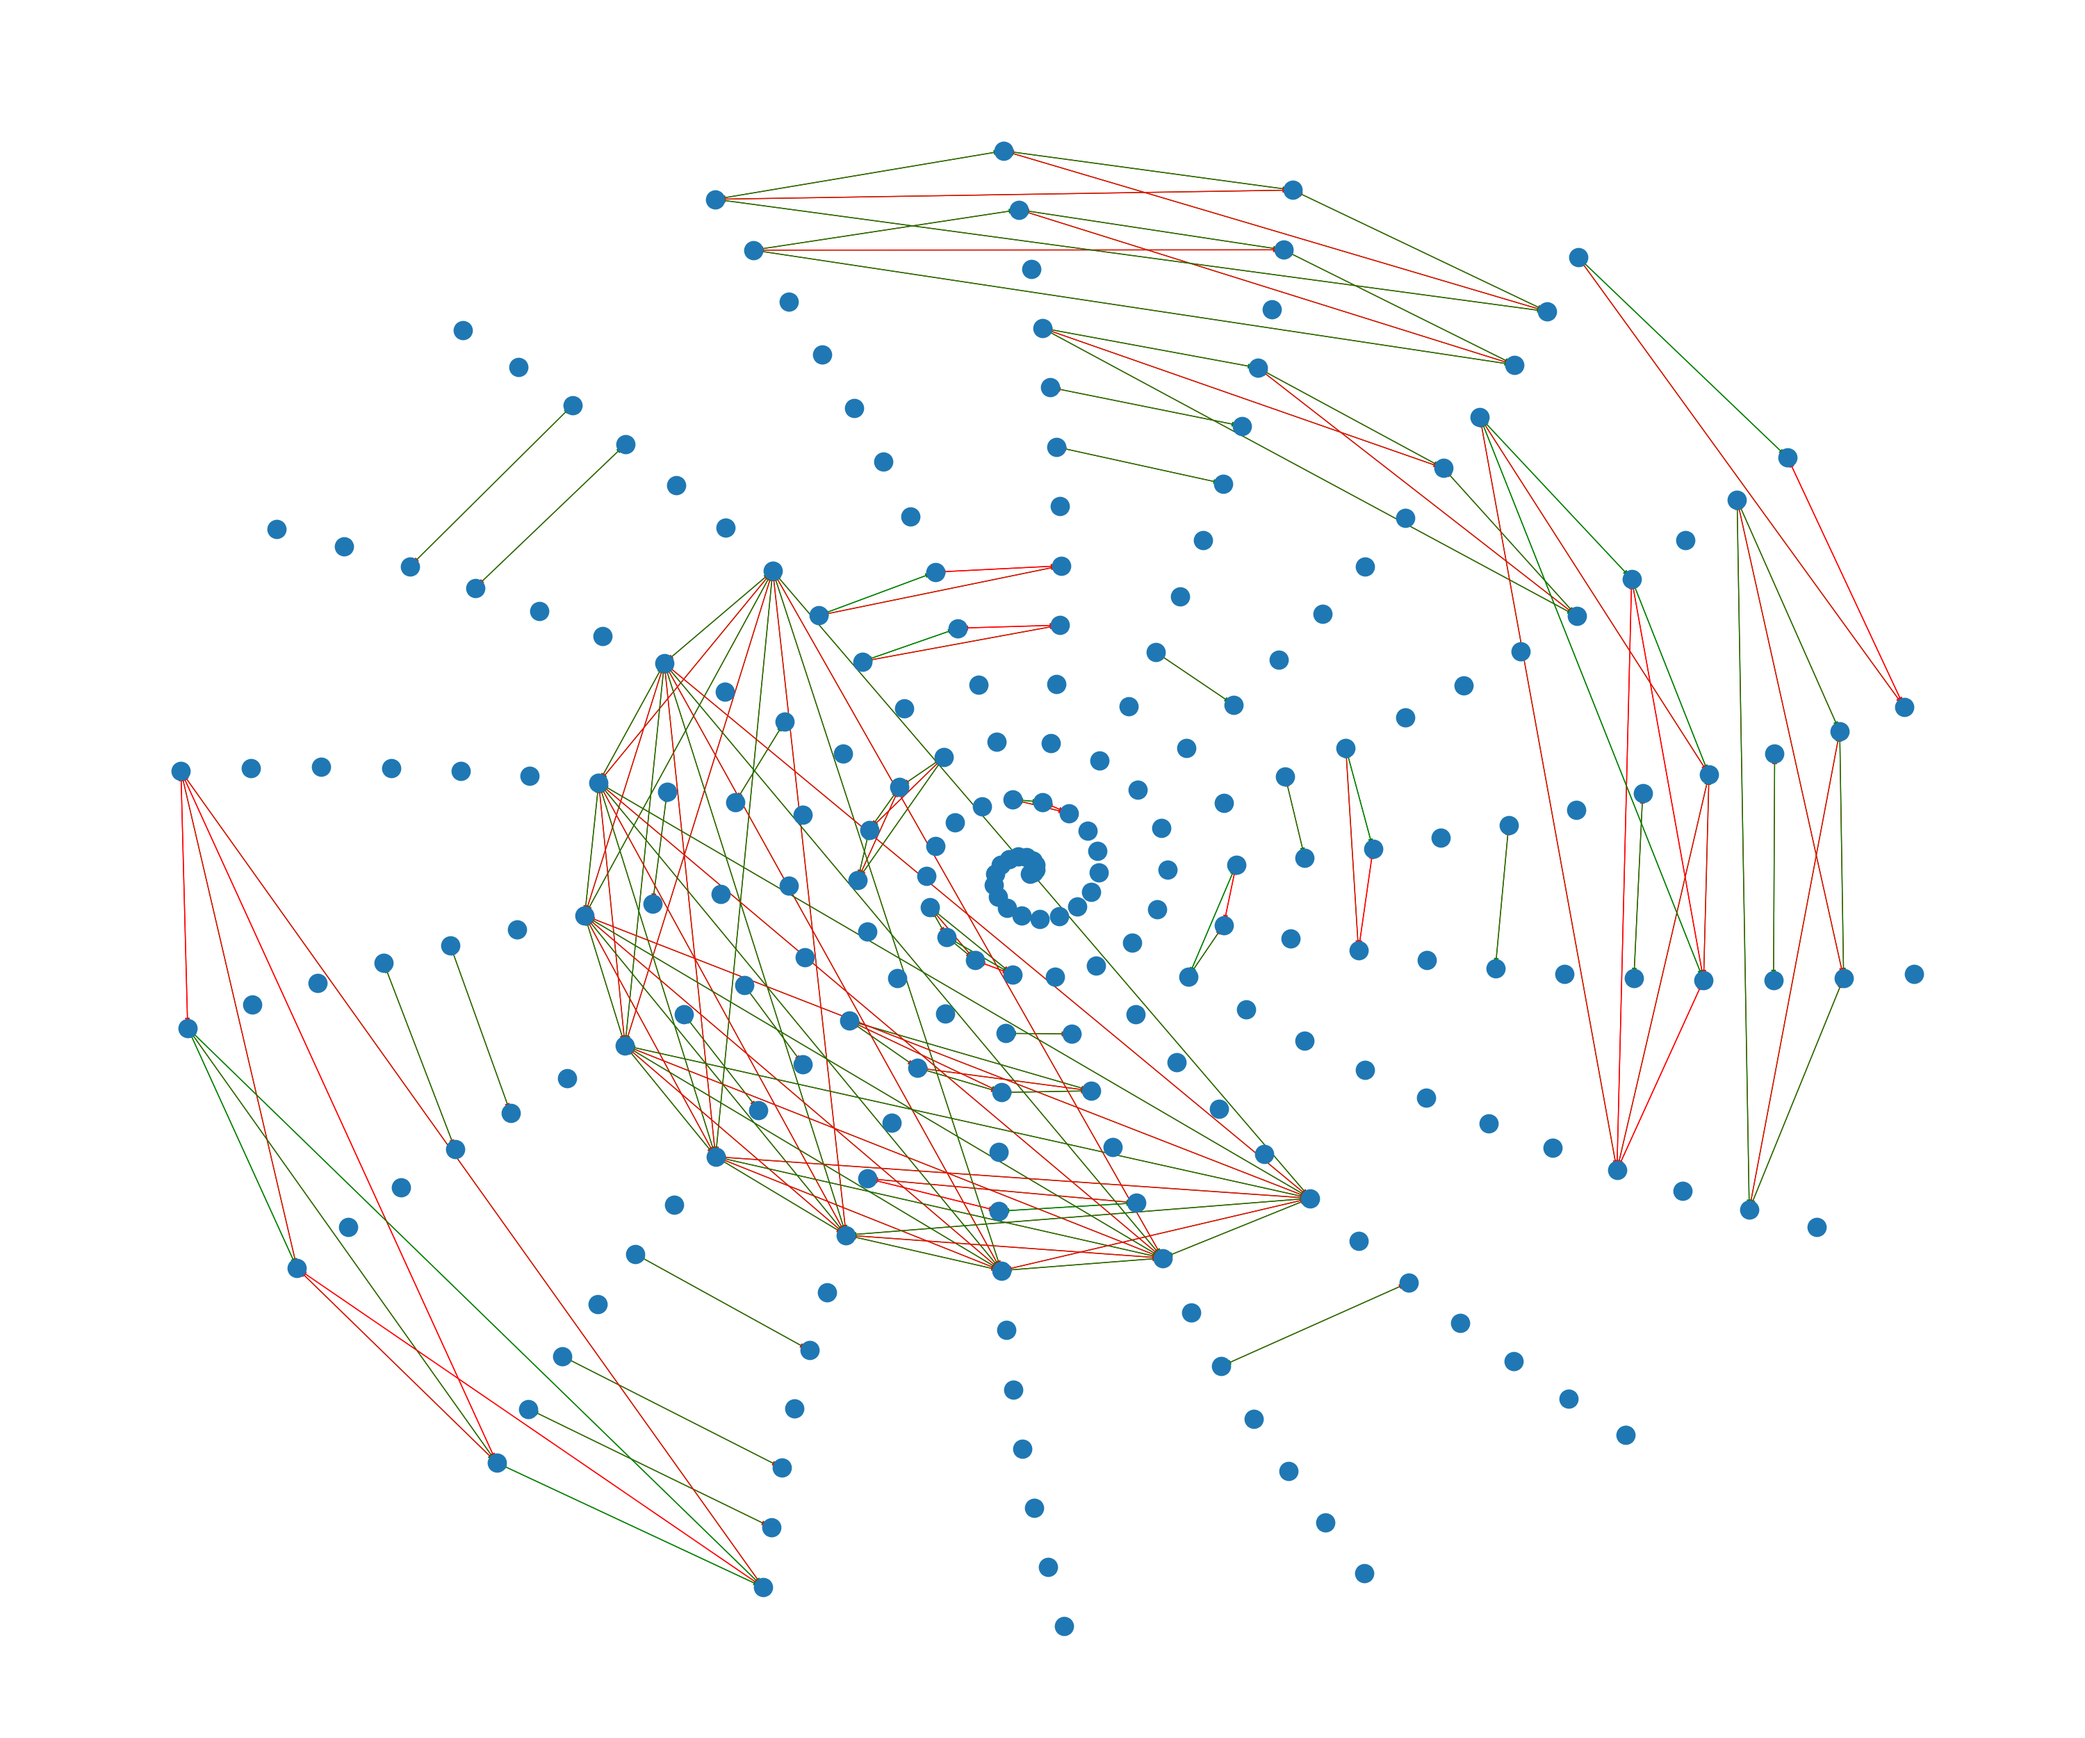
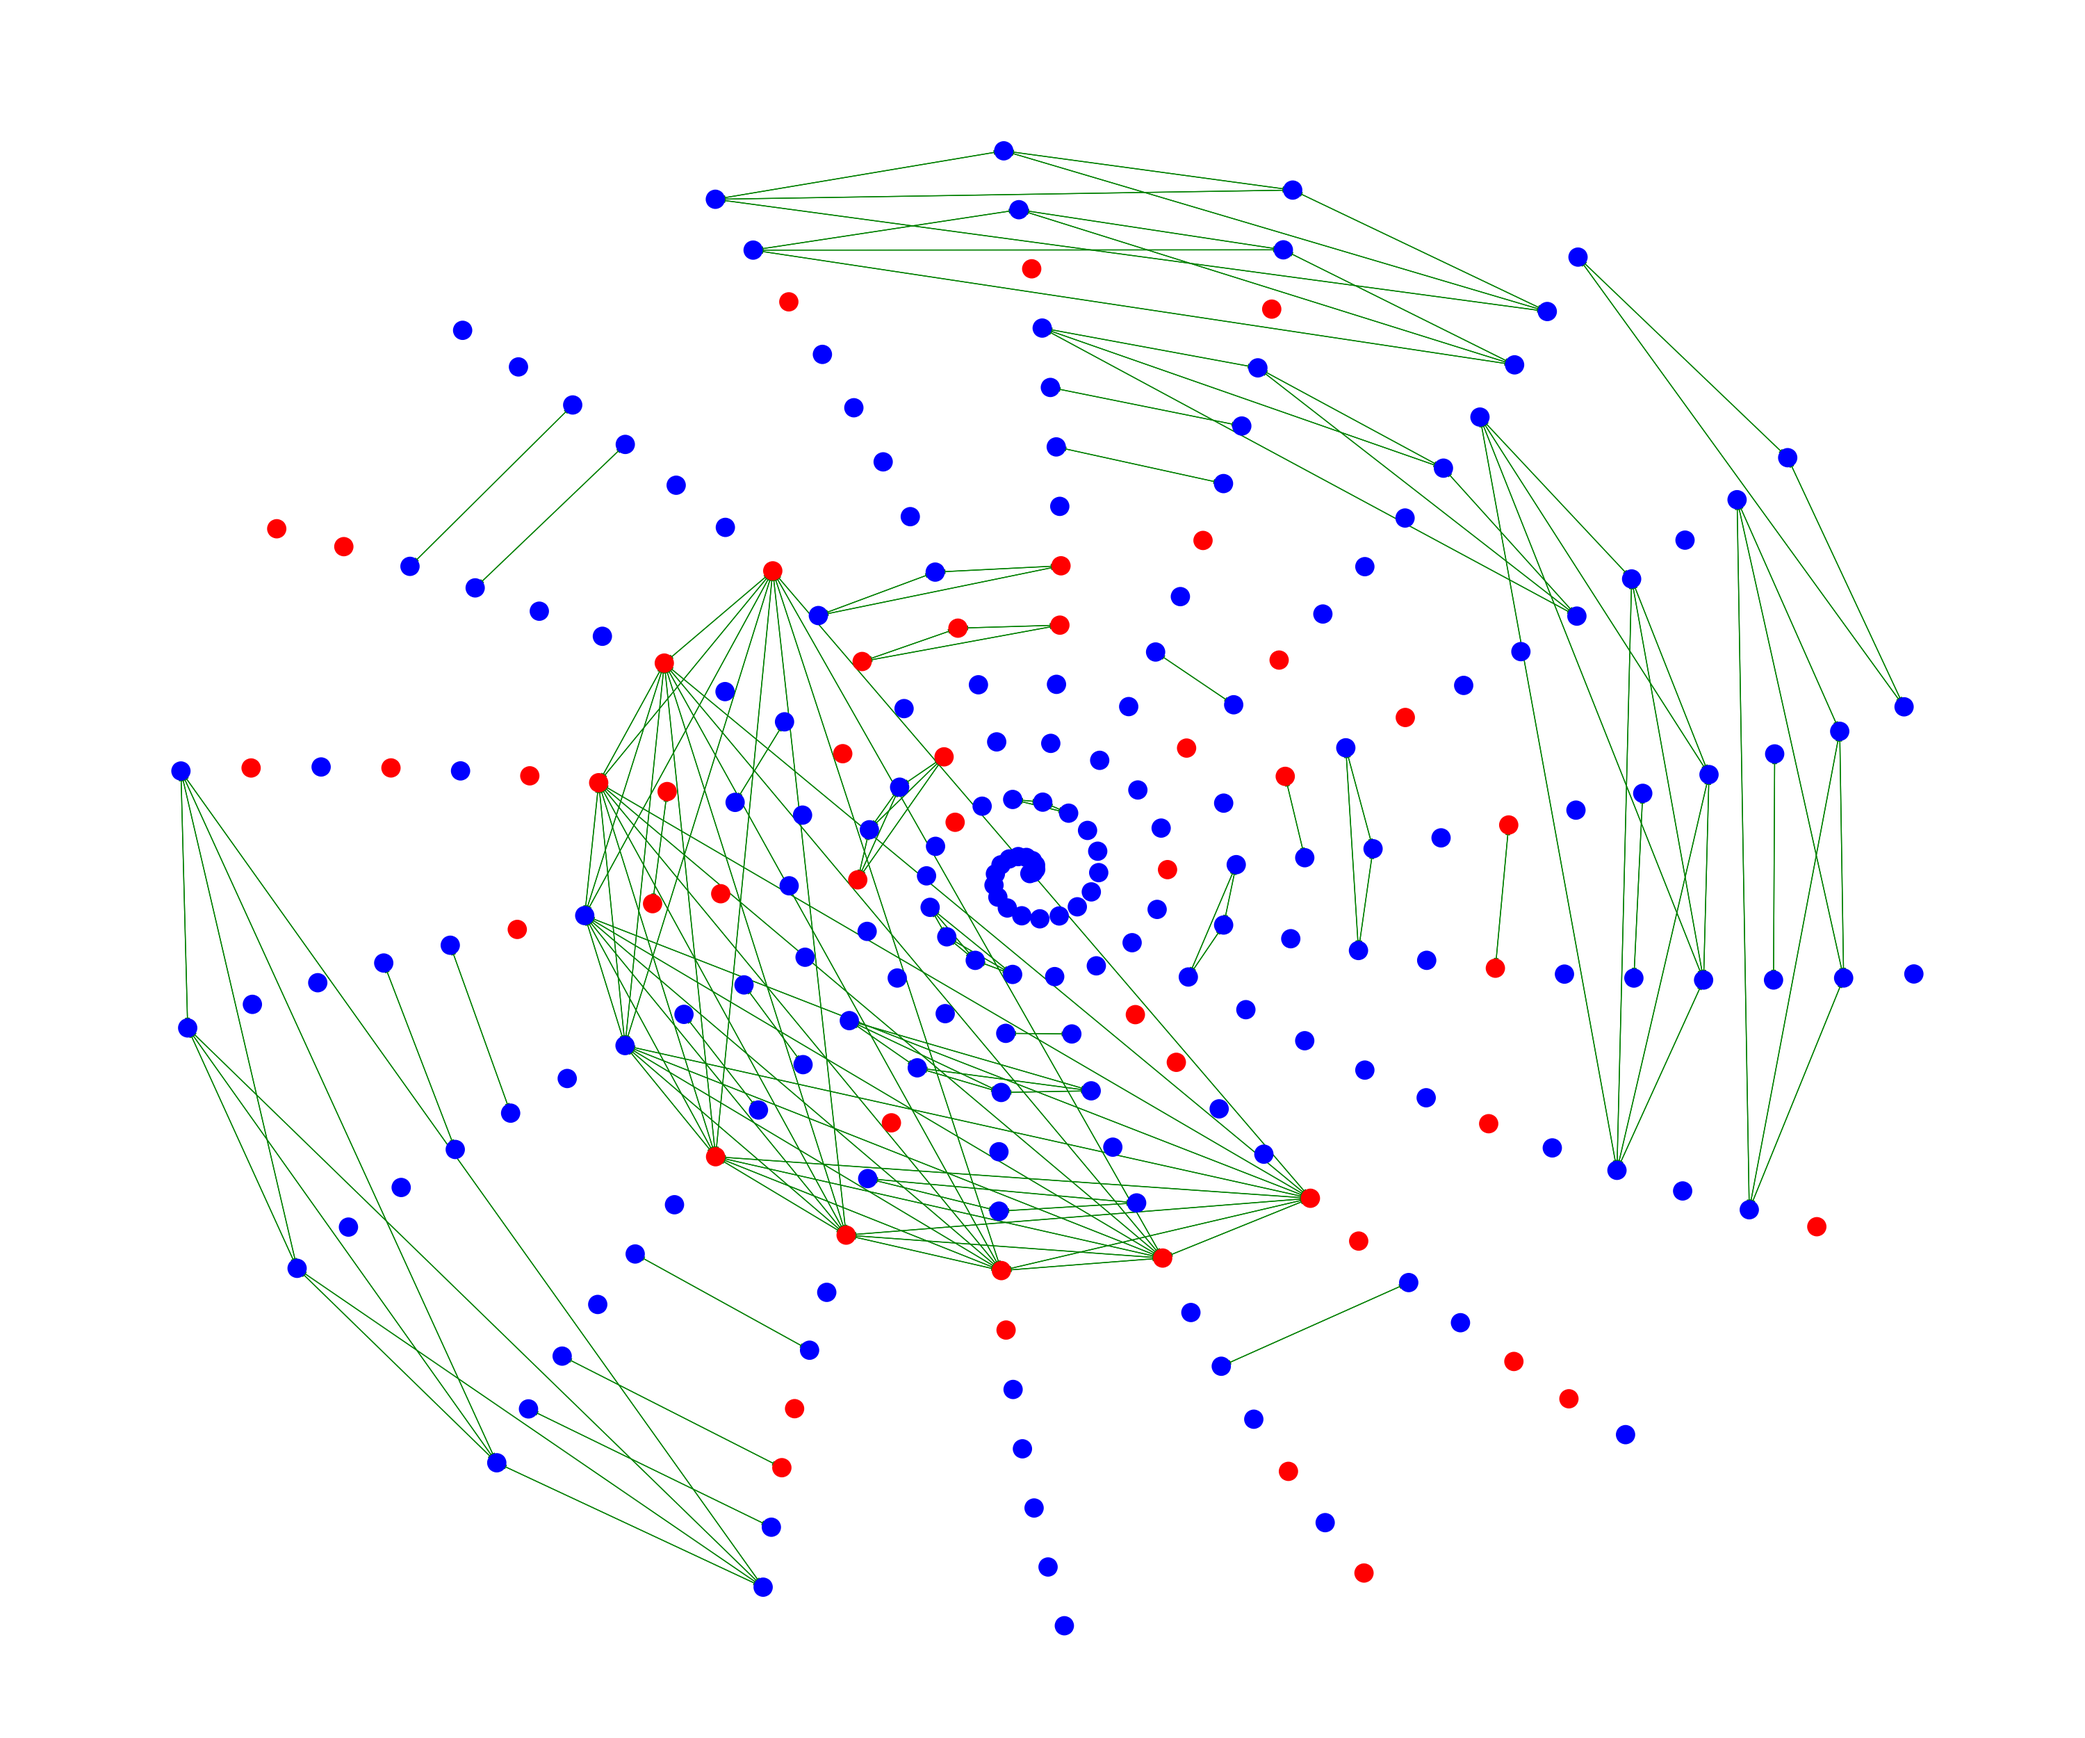
nice graph

diff --git a/network_x.py b/network_x.py
@@ -11,10 +11,12 @@ join_df = pd.read_csv(csv_url, usecols=['inventor_id', 'GMI1yr_prevexpabroad'])
 patent_to_inventor = {}
 inventor_to_patent = {}
 inventor_to_partner = {}
+inventor_to_indicator = {}
 
 inventor_id_list = []
 global_partner_list = []
 partner_id_count_list = []
+color_list = []
 deg_centrality_list = []
 close_centrality_list = []
 bet_centrality_list = []
@@ -28,11 +30,14 @@ for index, row in df.iterrows():
         patent_to_inventor[patent_id] = [inventor_id]
     else:
         patent_to_inventor[patent_id].append(inventor_id)
-    
+
     if inventor_id not in inventor_to_patent:
         inventor_to_patent[inventor_id] = [patent_id]
     else:
         inventor_to_patent[inventor_id].append(patent_id)
+    
+    if inventor_id not in inventor_to_indicator:
+        inventor_to_indicator[inventor_id] = row['GMI1yr_prevexpabroad']
 
 for inventor, patent in inventor_to_patent.items():
     inventor_id_list.append(inventor)
@@ -57,8 +62,14 @@ for inventor, partner in inventor_to_partner.items():
         g.add_node(part)
         g.add_edge(inventor, part)
 
+for node in g:
+    if inventor_to_indicator[node] == 1:
+        color_list.append('red')
+    else:
+        color_list.append('blue')
+
 plt.figure(figsize=(30,25))
-nx.draw(g, pos=nx.spiral_layout(g), node_size=100, edge_color=['red', 'green'], linewidths=10)
+nx.draw(g, pos=nx.spiral_layout(g), node_size=100, node_color=color_list, edge_color=['green'], linewidths=10)
 plt.savefig('graph.png')
 
 # random or spiral
